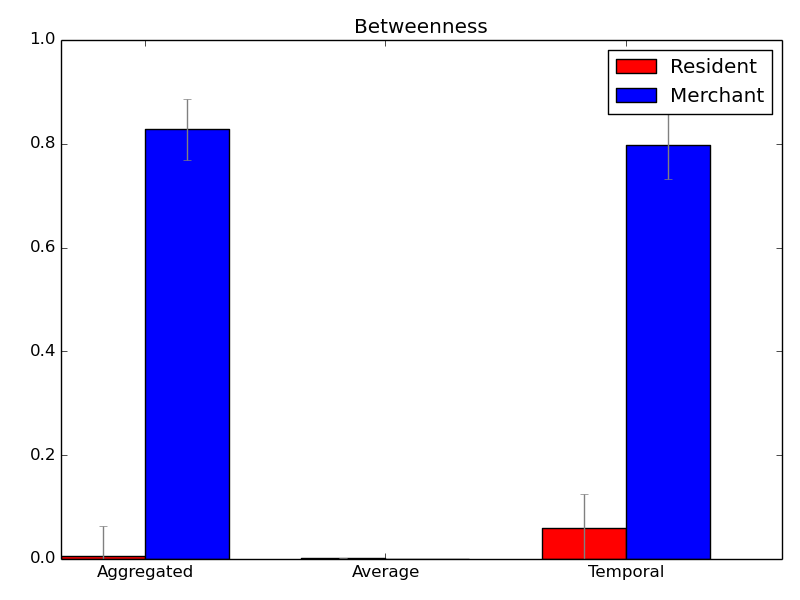
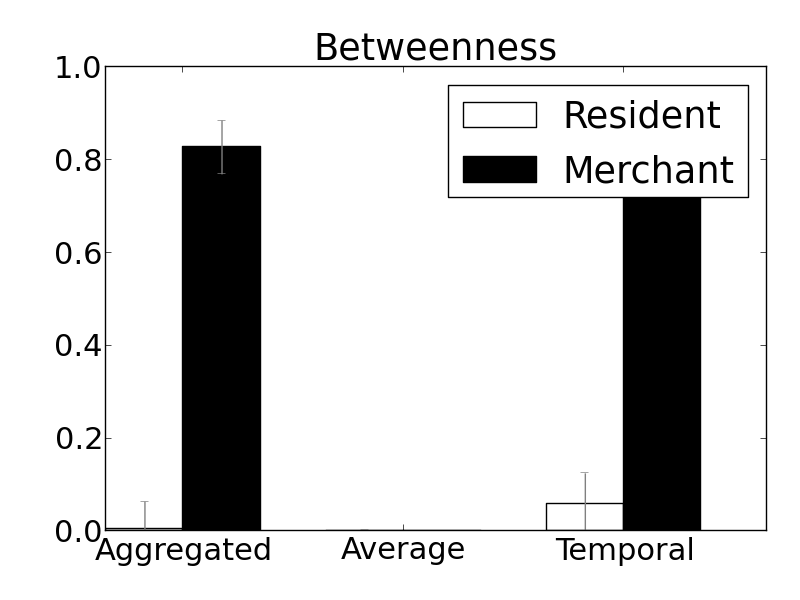
Changed the normalization constant of betweenness

Changed region(s): [[0.0312, 0.03, 1.0, 0.96]]

diff --git a/temporal_graph.py b/temporal_graph.py
@@ -2,6 +2,7 @@
 import networkx as nx
 import matplotlib.pyplot as plt
 import numpy as np
+from sets import Set
 
 class temporal_graph:
     # construct a temporal network that has snapshots from time 0 until time t_end
@@ -179,7 +180,7 @@ def compute_temporal_closeness(G,start_time,end_time):
         if t < end_time:
             # closeness is the sum of inverse shortest path distances for all v and u (with v!= u)
             closeness += (1/D_t - np.eye(n)).sum(1)
-        print "closeness computation done for time %d"%(t)
+        #print "closeness computation done for time %d"%(t)
 
     # at the end, we normalize closeness by (|V| - 1)*m
     closeness = closeness/((n-1)*m)
@@ -263,10 +264,17 @@ def compute_temporal_betweenness(G,start_time,end_time):
     n = len(verts)
     m = end_time - start_time
     labels = {}
+    # sets for computing the correct normalization values
+    V_s = [None]*n
+    V_d = [None]*n
     # compute integer labels
     idx = 0
     for v in verts:
         labels[v] = idx
+        V_s[idx] = Set()
+        V_s[idx].add(idx)
+        V_d[idx] = Set()
+        V_d[idx].add(idx)
         idx = idx + 1
     
     # this dictionary stores the distance matrices D_t
@@ -275,6 +283,7 @@ def compute_temporal_betweenness(G,start_time,end_time):
     S = {}
     # this stores the cumulative closeness score of G
     betweenness = np.zeros(n)
+
     for t in xrange(end_time,start_time-1,-1): # m time steps
         # this matrix stores the distances at time t
         D[t] = np.ones((n,n))*np.inf
@@ -327,6 +336,8 @@ def compute_temporal_betweenness(G,start_time,end_time):
                     if S[k][vi,di] > 0:
                         d_tk = D[t][si,vi]
                         d_kj = D[k][vi,di]
+                        V_s[vi].add(si)
+                        V_d[vi].add(di)
                         if D[t][si,di] == d_tk + d_kj:
                             if np.isnan(S[t][si,vi]*S[k][vi,di]/S[t][si,di]):
                                 print "Whoops! %d %d %d"%(si,vi,di)
@@ -340,9 +351,15 @@ def compute_temporal_betweenness(G,start_time,end_time):
                 # end for vi
             # end for di
         # end for si
-        print "betweenness computation done for time %d"%(t)
-        print "number of vertex triplets visited for betweennness %d"%(total_its)
-    betweenness = betweenness/(0.5*(n-1)*(n-2)*m)
+        #print "betweenness computation done for time %d"%(t)
+        #print "number of vertex triplets visited for betweennness %d"%(total_its)
+    #betweenness = betweenness/(0.5*(n-1)*(n-2)*m)
+    print V_s
+    print V_d
+    norm_ct = np.array([(0.5*m*len(V_s[vi])*len(V_d[vi])) for vi in xrange(n)])
+    print norm_ct
+    betweenness = np.divide(betweenness,0.5*np.power(norm_ct,1))
+
     return dict(zip(verts,betweenness))
 
 def compute_static_graph_statistics(G,start_time,end_time):

diff --git a/tmg_bar_plot.py b/tmg_bar_plot.py
@@ -6,6 +6,13 @@ import cPickle
 from matplotlib import pyplot as plt
 import numpy as np
 
+import matplotlib
+
+font = {'style' : 'normal',
+        'size'   : 22}
+
+matplotlib.rc('font', **font)
+
 def load(path = './bt_trace.pickle'):
     f = gzip.GzipFile(path, 'rb')
     data = cPickle.load(f)
@@ -74,11 +81,11 @@ plt.title("Degree")
 
 r_values = [res['mean']['agg_deg'],res['mean']['avg_deg'],res['mean']['t_deg']]
 r_std = [res['std']['agg_deg'],res['std']['avg_deg'],res['std']['t_deg']]
-plt.bar(c,r_values,w,color='r', label='Resident',yerr=r_std,error_kw=error_config)
+plt.bar(c,r_values,w,color='w', label='Resident',yerr=r_std,error_kw=error_config)
 
 m_values = [mer['mean']['agg_deg'],mer['mean']['avg_deg'],mer['mean']['t_deg']]
 m_std = [mer['std']['agg_deg'],mer['std']['avg_deg'],mer['std']['t_deg']]
-plt.bar(c+w, m_values,w,color='b', label='Merchant',yerr=r_std,error_kw=error_config)
+plt.bar(c+w, m_values,w,color='k', label='Merchant',yerr=r_std,error_kw=error_config)
 
 plt.xticks(c+w,labels)
 plt.legend()
@@ -91,11 +98,11 @@ plt.title("Closeness")
 
 r_values = [res['mean']['agg_cl'],res['mean']['avg_cl'],res['mean']['t_cl']]
 r_std = [res['std']['agg_cl'],res['std']['avg_cl'],res['std']['t_cl']]
-plt.bar(c,r_values,w,color='r', label='Resident',yerr=r_std,error_kw=error_config)
+plt.bar(c,r_values,w,color='w', label='Resident',yerr=r_std,error_kw=error_config)
 
 m_values = [mer['mean']['agg_cl'],mer['mean']['avg_cl'],mer['mean']['t_cl']]
 m_std = [mer['std']['agg_cl'],mer['std']['avg_cl'],mer['std']['t_cl']]
-plt.bar(c+w, m_values,w,color='b', label='Merchant',yerr=r_std,error_kw=error_config)
+plt.bar(c+w, m_values,w,color='k', label='Merchant',yerr=r_std,error_kw=error_config)
 
 plt.xticks(c+w,labels)
 plt.legend()
@@ -108,11 +115,11 @@ plt.title("Betweenness")
 
 r_values = [res['mean']['agg_bt'],res['mean']['avg_bt'],res['mean']['t_bt']]
 r_std = [res['std']['agg_bt'],res['std']['avg_bt'],res['std']['t_bt']]
-plt.bar(c,r_values,w,color='r', label='Resident',yerr=r_std,error_kw=error_config)
+plt.bar(c,r_values,w,color='w', label='Resident',yerr=r_std,error_kw=error_config)
 
 m_values = [mer['mean']['agg_bt'],mer['mean']['avg_bt'],mer['mean']['t_bt']]
 m_std = [mer['std']['agg_bt'],mer['std']['avg_bt'],mer['std']['t_bt']]
-plt.bar(c+w, m_values,w,color='b', label='Merchant',yerr=r_std,error_kw=error_config)
+plt.bar(c+w, m_values,w,color='k', label='Merchant',yerr=r_std,error_kw=error_config)
 
 plt.xticks(c+w,labels)
 plt.legend()

diff --git a/test_simple_graph.py b/test_simple_graph.py
@@ -21,5 +21,9 @@ if __name__ == "__main__":
         print "\t%s\t|\tAggregated\t|\t%f\t|\t%f\t|\t%f\t|"%(v,static_stats[0][0][v],static_stats[0][1][v],static_stats[0][2][v])
         print "\t%s\t|\tAverage  \t|\t%f\t|\t%f\t|\t%f\t|"%(v,static_stats[1][0][v],static_stats[1][1][v],static_stats[1][2][v])
 
+    #t = 0
+    #for G_t in G.snapshots:
+
+
     G.draw_time_ordered_graph()
     plt.show()
